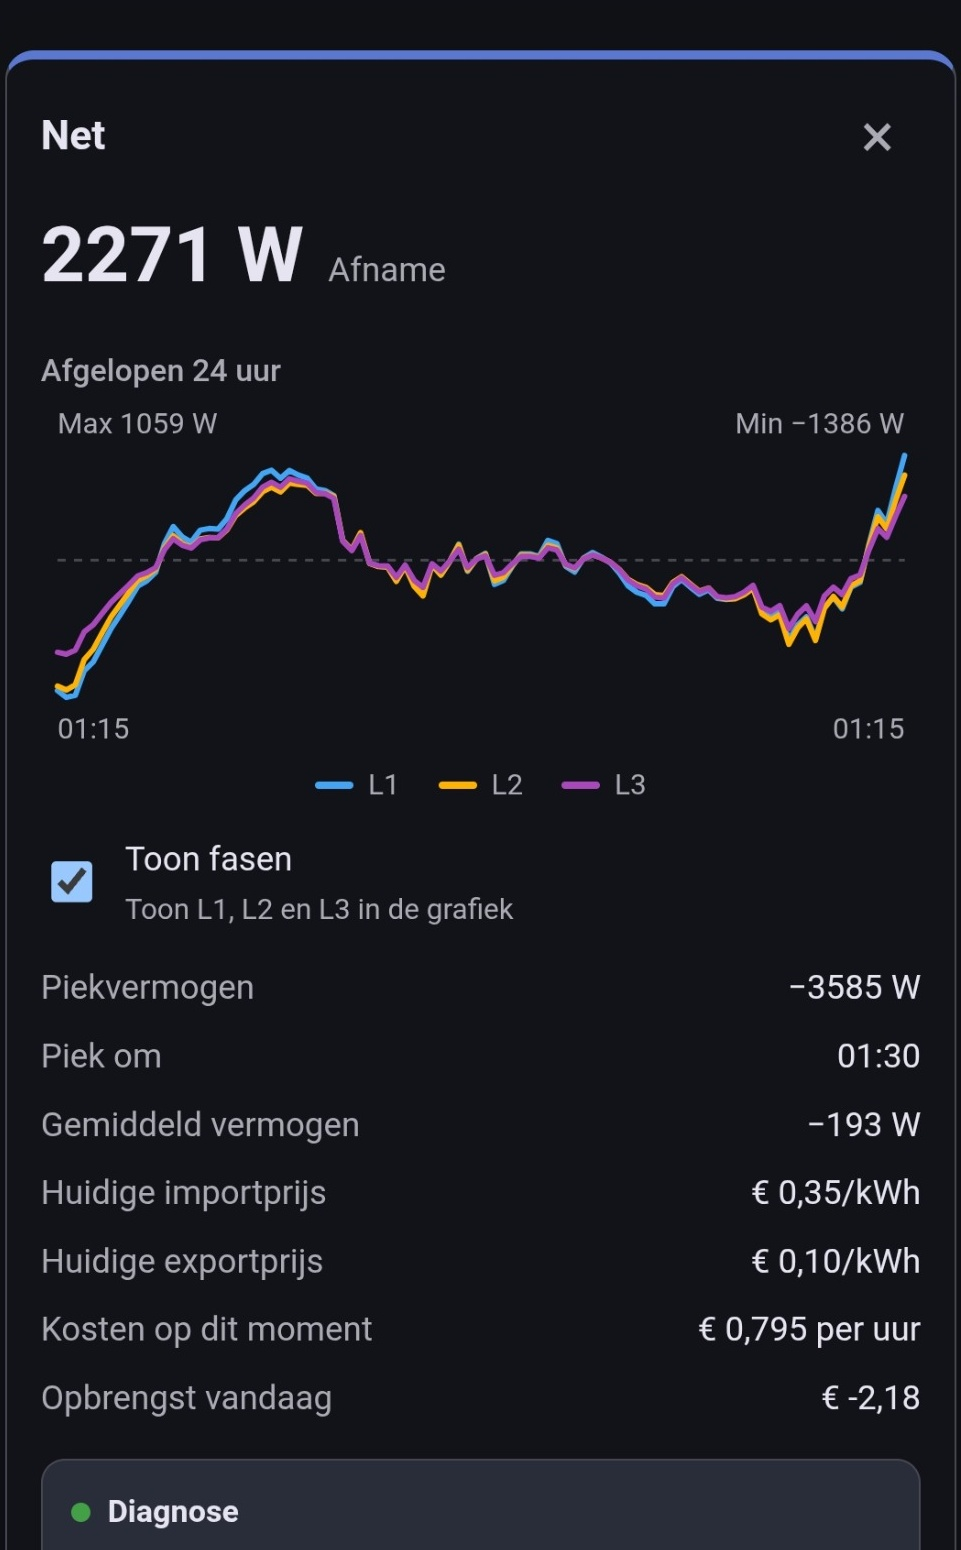
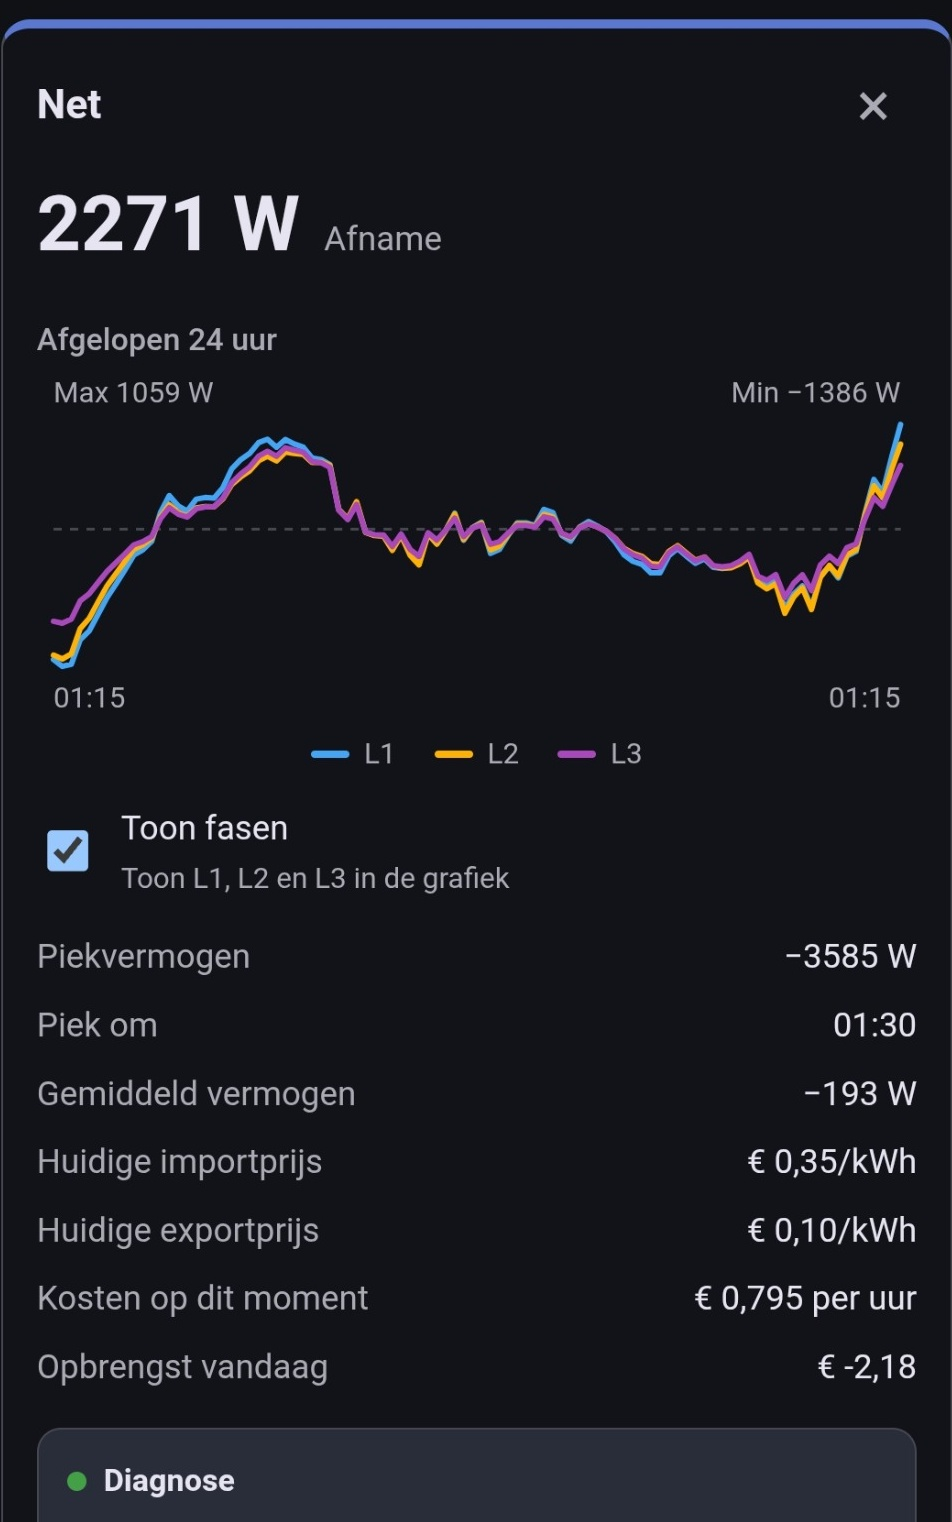
Finalize 1.0 documentation and screenshot layout

diff --git a/README.md b/README.md
@@ -27,18 +27,29 @@ It is designed to scale from a simple **Home / Grid / PV / Battery** overview to
 
 ## Quick look
 
-<table>
-  <tr>
-    <td align="center"><strong>Mobile overview</strong></td>
-    <td align="center"><strong>Hierarchy focus</strong></td>
-    <td align="center"><strong>Three-phase Grid popup</strong></td>
-  </tr>
-  <tr>
-    <td><img src="docs/images/overview-mobile.jpg" alt="Mobile overview" width="260"></td>
-    <td><img src="docs/images/hierarchy-mobile.jpg" alt="Hierarchy focus on mobile" width="260"></td>
-    <td><img src="docs/images/grid-popup-phases.jpg" alt="Grid popup with L1 L2 L3 graph" width="260"></td>
-  </tr>
-</table>
+### Mobile overview
+
+A compact Home-centered layout that stays readable on a phone while still showing prices, replay and warning badges.
+
+<p align="center">
+  <img src="docs/images/overview-mobile.jpg" alt="Mobile overview" width="760">
+</p>
+
+### Hierarchy focus
+
+Drill into a parent device to see the branch behind it, for example `Home -> Desk -> power strip -> PC / PS5 / 3D printer`.
+
+<p align="center">
+  <img src="docs/images/hierarchy-mobile.jpg" alt="Hierarchy focus on mobile" width="460">
+</p>
+
+### Three-phase Grid popup
+
+Inspect Grid history with optional L1 / L2 / L3 overlays, plus pricing, costs and diagnostics in the same popup.
+
+<p align="center">
+  <img src="docs/images/grid-popup-phases.jpg" alt="Grid popup with L1 L2 L3 graph" width="460">
+</p>
 
 ## Installation
 

diff --git a/docs/README.md b/docs/README.md
@@ -13,17 +13,28 @@ Welcome to the Energy Flow Card Pro documentation set.
 
 ## Screenshot set used in the docs
 
-<table>
-  <tr>
-    <td align="center"><strong>Desktop hero</strong></td>
-    <td align="center"><strong>Mobile overview</strong></td>
-    <td align="center"><strong>Editor</strong></td>
-  </tr>
-  <tr>
-    <td><img src="images/hero-desktop.png" alt="Desktop hero" width="280"></td>
-    <td><img src="images/overview-mobile.jpg" alt="Mobile overview" width="180"></td>
-    <td><img src="images/editor-mobile.jpg" alt="Editor" width="180"></td>
-  </tr>
-</table>
+### Desktop hero
+
+<p align="center">
+  <img src="images/hero-desktop.png" alt="Desktop hero" width="720">
+</p>
+
+### Mobile overview
+
+<p align="center">
+  <img src="images/overview-mobile.jpg" alt="Mobile overview" width="720">
+</p>
+
+### Hierarchy focus
+
+<p align="center">
+  <img src="images/hierarchy-mobile.jpg" alt="Hierarchy focus on mobile" width="420">
+</p>
+
+### Editor
+
+<p align="center">
+  <img src="images/editor-mobile.jpg" alt="Editor" width="360">
+</p>
 
 Use the configuration guide if you want to build a card, and the troubleshooting guide if the card is already installed but not behaving as expected.
